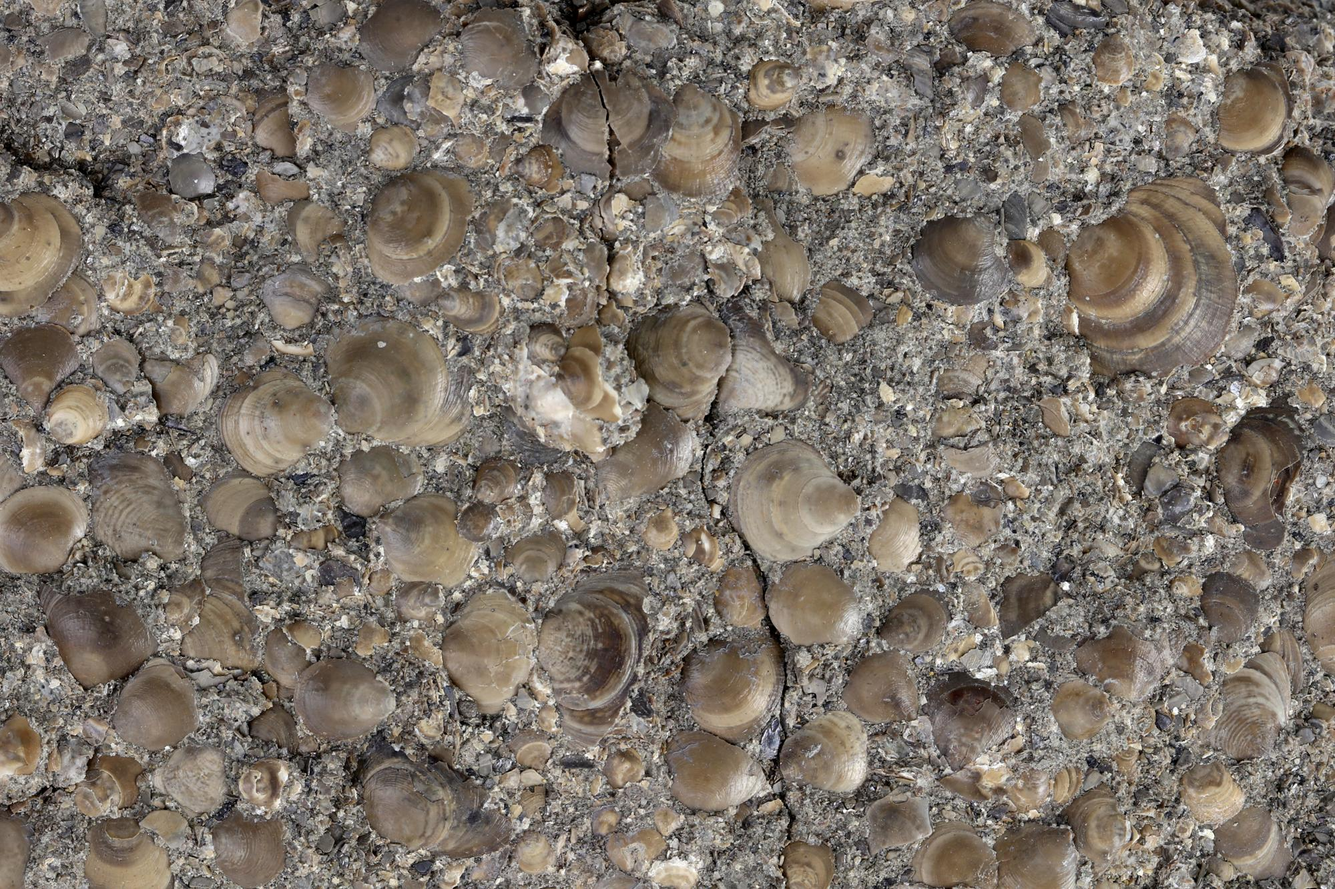
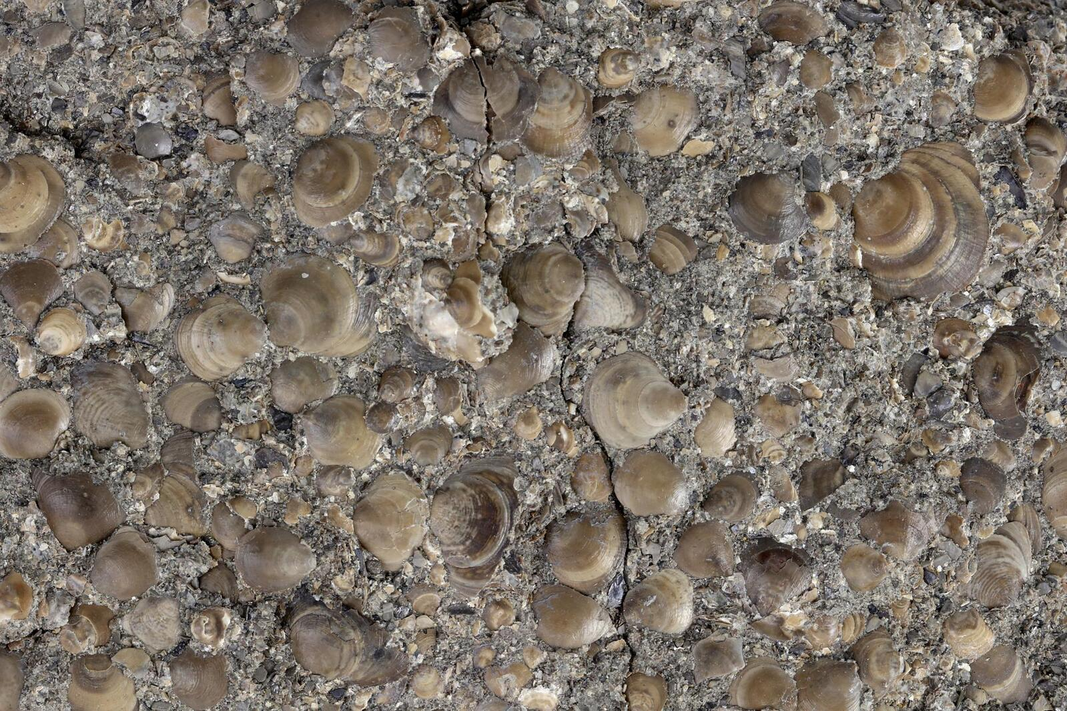
resize header img

diff --git a/pages/index.vue b/pages/index.vue
@@ -358,11 +358,7 @@ export default {
       }
     },
     backgroundImg() {
-      return this.$img('/frontpage/header_img2.jpg', {
-        // width: 1600,
-        // height: 900,
-        // format: 'webp',
-      })
+      return this.$img('/frontpage/header_img2.jpg')
     },
     backgroundSvg() {
       return this.$img('/frontpage/layered-peaks-haikei.svg')
